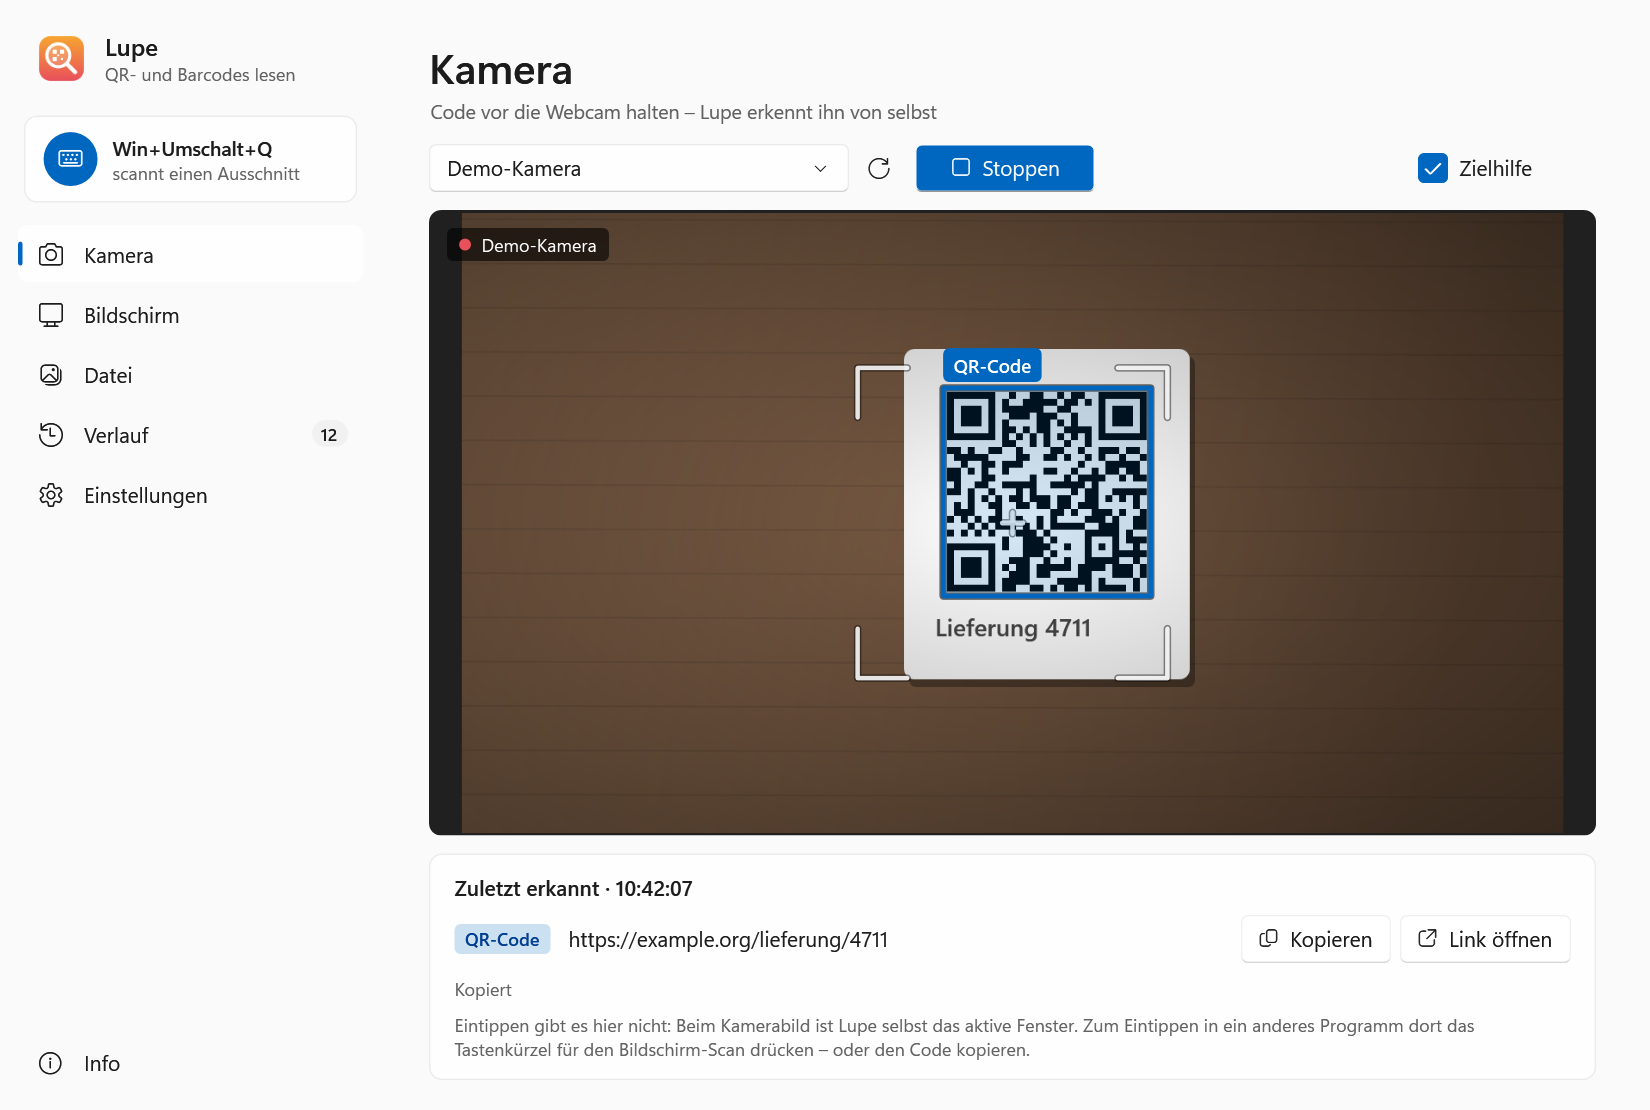
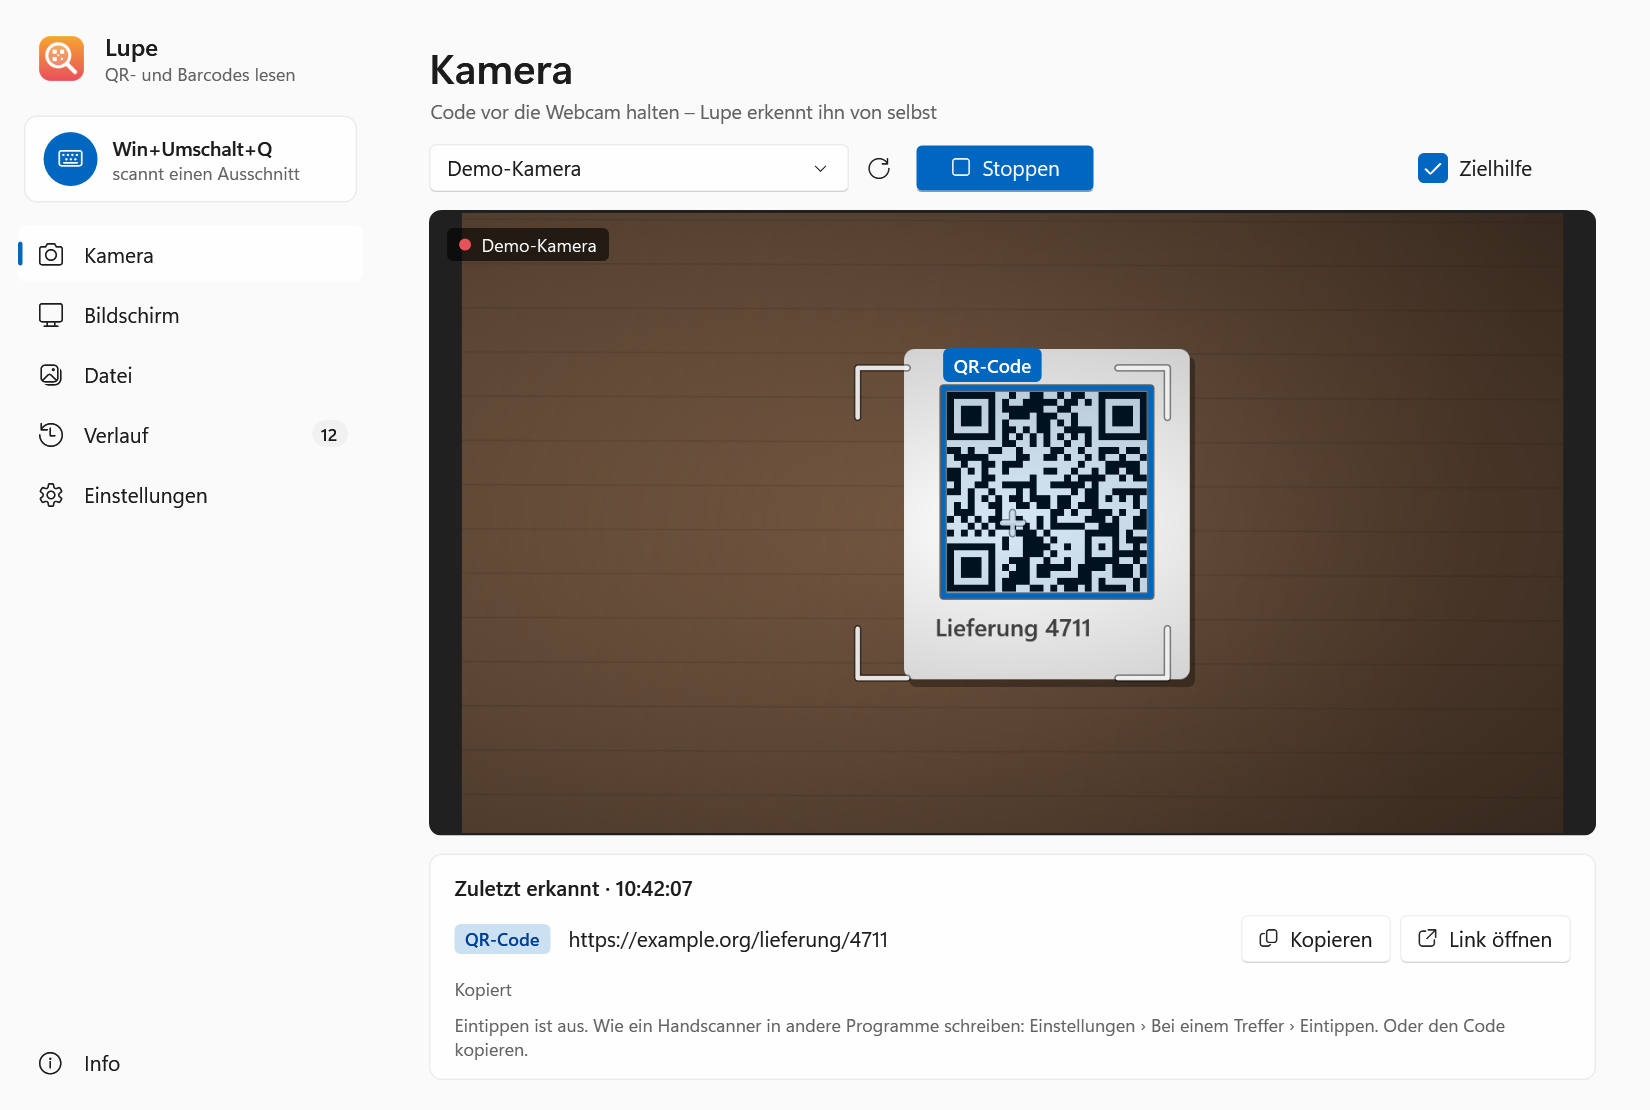
Kamera als Handscanner: Eintippen in das Programm vorn
Mit 'Eintippen' (Einstellungen › Bei einem Treffer › Kamera, Datei und Zwischenablage) tippt Lupe jeden erkannten Code per Unicode-Tastatureingabe in das Programm, das gerade vorn ist, z. B. Notepad – ohne die Zwischenablage anzufassen, mit 'Nach dem Eintippen' (Enter/Tab). Die Kamera läuft dafür auch bei minimiertem Fenster weiter; beim Seitenwechsel und Schließen hält sie an. Ist Lupe selbst vorn, wird nichts getippt und das gemeldet.

Changed region(s): [[0.2782, 0.9189, 0.8964, 0.9495]]

diff --git a/src/Lupe/UI/Pages/SettingsPage.xaml b/src/Lupe/UI/Pages/SettingsPage.xaml
@@ -24,9 +24,10 @@
             <!-- ========== Aktionen ========== -->
             <TextBlock Text="Bei einem Treffer" Style="{StaticResource SectionText}" Margin="2,0,0,8"/>
             <ui:SettingCard Glyph="&#xE722;" Header="Kamera, Datei und Zwischenablage"
-                            Description="Eintippen gibt es hier nicht – Lupe selbst ist dann das aktive Fenster.">
+                            Description="Eintippen (nur Kamera) schreibt den Code wie ein Handscanner in das Programm, das gerade vorn ist, z. B. Notepad. Lupe läuft dafür dahinter oder minimiert weiter.">
                 <StackPanel Orientation="Horizontal">
                     <CheckBox x:Name="ActCopy" Content="Kopieren" Click="Actions_Click" Margin="0,0,20,0" MinWidth="0"/>
+                    <CheckBox x:Name="ActType" Content="Eintippen" Click="Actions_Click" Margin="0,0,20,0" MinWidth="0"/>
                     <CheckBox x:Name="ActLink" Content="Link öffnen" Click="Actions_Click" MinWidth="0"/>
                 </StackPanel>
             </ui:SettingCard>

diff --git a/src/Lupe/UI/Pages/CameraPage.xaml b/src/Lupe/UI/Pages/CameraPage.xaml
@@ -101,8 +101,7 @@
                            Foreground="{DynamicResource TextFillColorSecondaryBrush}"/>
                 <ItemsControl x:Name="ResultList" ItemTemplate="{StaticResource CodeRow}" Margin="0,6,0,0" Focusable="False"/>
                 <TextBlock x:Name="ResultDone" Style="{StaticResource Caption}" Margin="0,6,0,0" Visibility="Collapsed"/>
-                <TextBlock Style="{StaticResource Caption}" Margin="0,8,0,0"
-                           Text="Eintippen gibt es hier nicht: Beim Kamerabild ist Lupe selbst das aktive Fenster. Zum Eintippen in ein anderes Programm dort das Tastenkürzel für den Bildschirm-Scan drücken – oder den Code kopieren."/>
+                <TextBlock x:Name="TypeHint" Style="{StaticResource Caption}" Margin="0,8,0,0" TextWrapping="Wrap"/>
             </StackPanel>
         </Border>
     </Grid>

diff --git a/src/Lupe/UI/Pages/CameraPage.xaml.cs b/src/Lupe/UI/Pages/CameraPage.xaml.cs
@@ -8,6 +8,7 @@ using Lupe.Core.Camera;
 using Lupe.Core.Decoding;
 using Lupe.Core.Model;
 using Lupe.Demo;
+using Lupe.Interop;
 using Lupe.Services;
 
 namespace Lupe.UI.Pages;
@@ -64,12 +65,21 @@ public partial class CameraPage : UserControl, IPage
         };
         state.SettingsChanged += OnSettingsChanged;
         ShowHint(Hint.Stopped);
+        UpdateTypeHint();
     }
+
+    /// <summary>„Eintippen“ für die Kamera an: Lupe arbeitet wie ein Handscanner und tippt in das Programm vorn.</summary>
+    private bool ScannerMode => _state.Settings.Actions.HasFlag(ResultActions.Eintippen);
+
+    private void UpdateTypeHint() => TypeHint.Text = ScannerMode
+        ? "Eintippen ist an: Wie ein Handscanner schreibt Lupe erkannte Codes in das Programm, das gerade vorn ist – das Zielprogramm anklicken, Lupe kann dahinter oder minimiert weiterlaufen."
+        : "Eintippen ist aus. Wie ein Handscanner in andere Programme schreiben: Einstellungen › Bei einem Treffer › Eintippen. Oder den Code kopieren.";
 
     // ================= Sichtbarkeit =================
 
     public void OnShown()
     {
+        _keptWhileMinimized = false;
         // Screenshots stellen ihren Zustand selbst her – eine langsame Kamerasuche käme ihnen sonst dazwischen
         if (_state.Strict) return;
         if (!_listed) Ui.Run(_state, ListCamerasAsync, "Kameras suchen");
@@ -83,8 +93,31 @@ public partial class CameraPage : UserControl, IPage
     public void OnHidden()
     {
         if (_loop is null && !_starting) return;
+        // Als Handscanner läuft die Kamera auch bei minimiertem Fenster weiter und tippt in das Programm vorn. Beim
+        // Seitenwechsel und beim Schließen des Fensters (Infobereich) hält sie an – unsichtbar soll sie nicht laufen.
+        if (ScannerMode && Window.GetWindow(this) is { IsVisible: true, WindowState: WindowState.Minimized } window)
+        {
+            WatchWindow(window);
+            _keptWhileMinimized = true;
+            return;
+        }
+        _keptWhileMinimized = false;
         _resumeOnShow = true;
         Ui.Run(_state, StopCameraAsync, "Kamera stoppen");
+    }
+
+    private bool _keptWhileMinimized;
+    private Window? _watchedWindow;
+
+    /// <summary>Minimiert weitergelaufen und dann das Fenster ganz geschlossen: jetzt anhalten.</summary>
+    private void WatchWindow(Window window)
+    {
+        if (_watchedWindow == window) return;
+        _watchedWindow = window;
+        window.IsVisibleChanged += (_, _) =>
+        {
+            if (!window.IsVisible && _keptWhileMinimized) OnHidden();
+        };
     }
 
     // ================= Kameras =================
@@ -293,7 +326,10 @@ public partial class CameraPage : UserControl, IPage
     private async Task OnDetectedAsync(int generation, IReadOnlyList<DecodedCode> codes)
     {
         if (generation != _generation || codes.Count == 0) return;
-        var report = await _state.Hits.ReportAsync(codes, ScanSource.Kamera);
+        // Wie ein Handscanner: „Eintippen“ schreibt in das Programm, das gerade vorn ist – Lupe selbst zählt nicht
+        var foreground = Native.GetForegroundWindow();
+        nint typeTarget = foreground == 0 || Native.IsOwnWindow(foreground) ? 0 : foreground;
+        var report = await _state.Hits.ReportAsync(codes, ScanSource.Kamera, typeTarget);
         ShowResults(report.Codes, report.Entries, report.Time, report.NeedsChoice ? null : report.Outcome);
     }
 
@@ -367,6 +403,7 @@ public partial class CameraPage : UserControl, IPage
     {
         AimToggle.IsChecked = now.AimHelp;
         View.ShowAim = now.AimHelp;
+        if (old.Actions != now.Actions) UpdateTypeHint();
         if (!old.Formats.SequenceEqual(now.Formats) && _loop is not null) _decoder = _state.CreateLiveDecoder();
         // Die Wiederholungssperre gibt der Schleife ihr Konstruktor mit – also neu starten
         if (old.RepeatSuppressMs != now.RepeatSuppressMs && _loop is not null) Ui.Run(_state, StartAsync, "Kamera starten");

diff --git a/src/Lupe/Services/Hits.cs b/src/Lupe/Services/Hits.cs
@@ -42,10 +42,18 @@ internal sealed record HitReport(IReadOnlyList<DecodedCode> Codes, ActionOutcome
 /// </summary>
 internal sealed class Hits(AppState state)
 {
-    /// <summary>Aktionen, die für eine Quelle gelten. Eintippen nur beim Bildschirm-Scan: Sonst ist Lupe selbst vorn.</summary>
-    public ResultActions ActionsFor(ScanSource source) => source == ScanSource.Bildschirm
-        ? state.Settings.ScreenActions
-        : state.Settings.Actions & ~ResultActions.Eintippen;
+    /// <summary>
+    /// Aktionen, die für eine Quelle gelten. Eintippen beim Bildschirm-Scan (in das Fenster von vorher) und bei der Kamera
+    /// (wie ein Handscanner in das Programm vorn); bei Datei und Zwischenablage nicht – dort ist Lupe selbst vorn.
+    /// </summary>
+    public ResultActions ActionsFor(ScanSource source) => source switch
+    {
+        ScanSource.Bildschirm => state.Settings.ScreenActions,
+        // Wie ein Handscanner: tippt in das Programm, das gerade vorn ist
+        ScanSource.Kamera => state.Settings.Actions,
+        // Datei und Zwischenablage holt man in Lupe selbst – das Ziel wäre Lupe
+        _ => state.Settings.Actions & ~ResultActions.Eintippen,
+    };
 
     /// <summary>
     /// Neue Treffer: Ton, Verlauf und – bei genau einem Code – die Aktionen. <paramref name="typeTarget"/> ist das
@@ -120,7 +128,9 @@ internal sealed class Hits(AppState state)
         }
         if (wanted.HasFlag(ResultActions.Eintippen))
         {
-            if (typeTarget == 0) problems.Add("Nicht eingetippt: Der Scan kam aus Lupe selbst – Eintippen geht über das Tastenkürzel aus einem anderen Programm.");
+            if (typeTarget == 0) problems.Add(source == ScanSource.Kamera
+                ? "Nicht eingetippt: Lupe ist gerade das aktive Fenster – erst das Zielprogramm anklicken, Lupe kann dahinter oder minimiert weiterlaufen."
+                : "Nicht eingetippt: Der Scan kam aus Lupe selbst – Eintippen geht über das Tastenkürzel aus einem anderen Programm.");
             else if (await Typing.TypeIntoAsync(typeTarget, code.Text, state.Settings.TypeSuffix) is { } error) problems.Add(error);
             else done |= ResultActions.Eintippen;
         }

diff --git a/src/Lupe/UI/Pages/SettingsPage.xaml.cs b/src/Lupe/UI/Pages/SettingsPage.xaml.cs
@@ -68,12 +68,13 @@ public partial class SettingsPage : UserControl, IPage
             var s = _state.Settings;
             UpdateProblem();
             ActCopy.IsChecked = s.Actions.HasFlag(ResultActions.Kopieren);
+            ActType.IsChecked = s.Actions.HasFlag(ResultActions.Eintippen);
             ActLink.IsChecked = s.Actions.HasFlag(ResultActions.LinkOeffnen);
             ScrCopy.IsChecked = s.ScreenActions.HasFlag(ResultActions.Kopieren);
             ScrType.IsChecked = s.ScreenActions.HasFlag(ResultActions.Eintippen);
             ScrLink.IsChecked = s.ScreenActions.HasFlag(ResultActions.LinkOeffnen);
             SuffixBox.SelectedItem = SuffixBox.Items.OfType<ComboBoxItem>().FirstOrDefault(i => (string)i.Tag == s.TypeSuffix) ?? SuffixBox.Items[0];
-            SuffixBox.IsEnabled = s.ScreenActions.HasFlag(ResultActions.Eintippen);
+            SuffixBox.IsEnabled = s.ScreenActions.HasFlag(ResultActions.Eintippen) || s.Actions.HasFlag(ResultActions.Eintippen);
 
             if (!_recording) HotkeyBox.Text = FormatHotkey(s.ScreenHotkey);
             UpdateHotkeyState();
@@ -128,9 +129,9 @@ public partial class SettingsPage : UserControl, IPage
             (copy?.IsChecked == true ? ResultActions.Kopieren : 0)
             | (type?.IsChecked == true ? ResultActions.Eintippen : 0)
             | (link?.IsChecked == true ? ResultActions.LinkOeffnen : 0);
-        var actions = Of(ActCopy, null, ActLink);
+        var actions = Of(ActCopy, ActType, ActLink);
         var screen = Of(ScrCopy, ScrType, ScrLink);
-        SuffixBox.IsEnabled = screen.HasFlag(ResultActions.Eintippen);
+        SuffixBox.IsEnabled = screen.HasFlag(ResultActions.Eintippen) || actions.HasFlag(ResultActions.Eintippen);
         _state.UpdateSettings(s => s with { Actions = actions, ScreenActions = screen });
     }
 

diff --git a/docs/settings.md b/docs/settings.md
@@ -33,11 +33,11 @@ Changes apply and are saved **immediately**; there is no *Save* button. Settings
 
 | Group | Offers | Default |
 |---|---|---|
-| ***Kamera, Datei und Zwischenablage*** | *Kopieren*, *Link öffnen* | *Kopieren* |
+| ***Kamera, Datei und Zwischenablage*** | *Kopieren*, *Eintippen* (camera only), *Link öffnen* | *Kopieren* |
 | ***Bildschirmausschnitt*** | *Kopieren*, *Eintippen*, *Link öffnen* | *Kopieren* |
 
 - ***Kopieren*** (copy) puts the content on the clipboard.
-- ***Eintippen*** (type) exists only for the screen scan: there, the window that was active before the scan is known, and Lupe types into it. With the camera, a file or the clipboard, Lupe itself is the active window – *Eintippen gibt es hier nicht – Lupe selbst ist dann das aktive Fenster.* Even for the screen scan, typing only happens when the scan was started with the shortcut from another program ([details](usage.md#the-screen-scan)).
+- ***Eintippen*** (type) writes the content as keyboard input. For the **screen scan** it goes into the window that was active before the scan – only when the scan was started with the shortcut from another program ([details](usage.md#the-screen-scan)). For the **camera** Lupe works like a hand scanner and types into the program that is in front when the code is recognised; Lupe can run behind it or minimised ([details](usage.md#kamera--camera)). A file or the clipboard is never typed – there, Lupe itself is in front.
 - ***Link öffnen*** (open link) opens the content in the default browser when a [link rule](link-rules.md) matches. Without a matching rule nothing opens. Independent of this setting, every matching result has a *Link öffnen* button.
 - No action ticked: the result is shown and added to the history, nothing else.
 

diff --git a/docs/usage.md b/docs/usage.md
@@ -107,7 +107,7 @@ If the rectangle contains more than one code, a small window asks *N Codes gefun
 
 ***Zuletzt erkannt*** (last recognised) shows the result with *Kopieren* and *Link öffnen*. With several codes in one picture, all go to the history and the actions do **not** run – copy or open the one you need, or use *Alle kopieren*.
 
-**No typing from the camera.** While you use the camera, Lupe itself is the active window, so there is no “previous” window to type into. The page says so: *Eintippen gibt es hier nicht …* Use the screen scan shortcut, or copy.
+**Typing like a hand scanner.** With *Eintippen* ticked under *Einstellungen › Bei einem Treffer › Kamera, Datei und Zwischenablage*, Lupe types every recognised code into the program that is in front at that moment – click into Notepad, Excel or an ERP form and hold the code in front of the camera. *Nach dem Eintippen* (Enter or Tab) applies here too. Lupe can stay behind that program or be minimised; the camera keeps running while minimised and stops when you switch to another page or close the window. When Lupe itself is in front, nothing is typed (*Nicht eingetippt: Lupe ist gerade das aktive Fenster …*). The repeat suppression keeps a code that stays in view from being typed again. Lupe types with Unicode keyboard input, like the screen scan – the clipboard is not touched (see [How it works › Typing](how-it-works.md#typing)).
 
 If something goes wrong, the picture area explains it, e.g. *Keine Kamera gefunden – Bildschirm oder Datei nutzen* or *Kamera nicht verfügbar* with the reason and *Erneut versuchen* (try again). The camera privacy settings of Windows are explained in [Installation › Camera access](installation.md#camera-access-in-windows).
 

diff --git a/README.md b/README.md
@@ -136,7 +136,7 @@ The repository is private: sign in to GitHub with an account that has access to 
 
 **② Scan** – the shortcut works in every program as long as Lupe is running, also when its window is closed. The camera, files and the clipboard are on the pages *Kamera* and *Datei*. Walkthrough: **[Using the app →](docs/usage.md)**
 
-**③ Use the result** – by default Lupe only copies. What happens with a result is set separately for the screen scan and for camera, file and clipboard: *Kopieren* (copy), *Eintippen* (type, screen scan only) and *Link öffnen* (open link). Every setting with its default: **[Settings →](docs/settings.md)** – and how links are built: **[Link rules →](docs/link-rules.md)**
+**③ Use the result** – by default Lupe only copies. What happens with a result is set separately for the screen scan and for camera, file and clipboard: *Kopieren* (copy), *Eintippen* (type – after a screen scan into the window you came from, from the camera like a hand scanner into the program in front) and *Link öffnen* (open link). Every setting with its default: **[Settings →](docs/settings.md)** – and how links are built: **[Link rules →](docs/link-rules.md)**
 
 ### From the command line
 

diff --git a/docs/how-it-works.md b/docs/how-it-works.md
@@ -19,7 +19,7 @@ flowchart LR
     T --> H
     TC --> O["stdout<br>FORMAT⇥content"]
     H --> A["Kopieren"]
-    H --> E["Eintippen<br>screen scan only"]
+    H --> E["Eintippen<br>screen scan, camera"]
     H --> N["Link öffnen<br>if a rule matches"]
 ```
 
